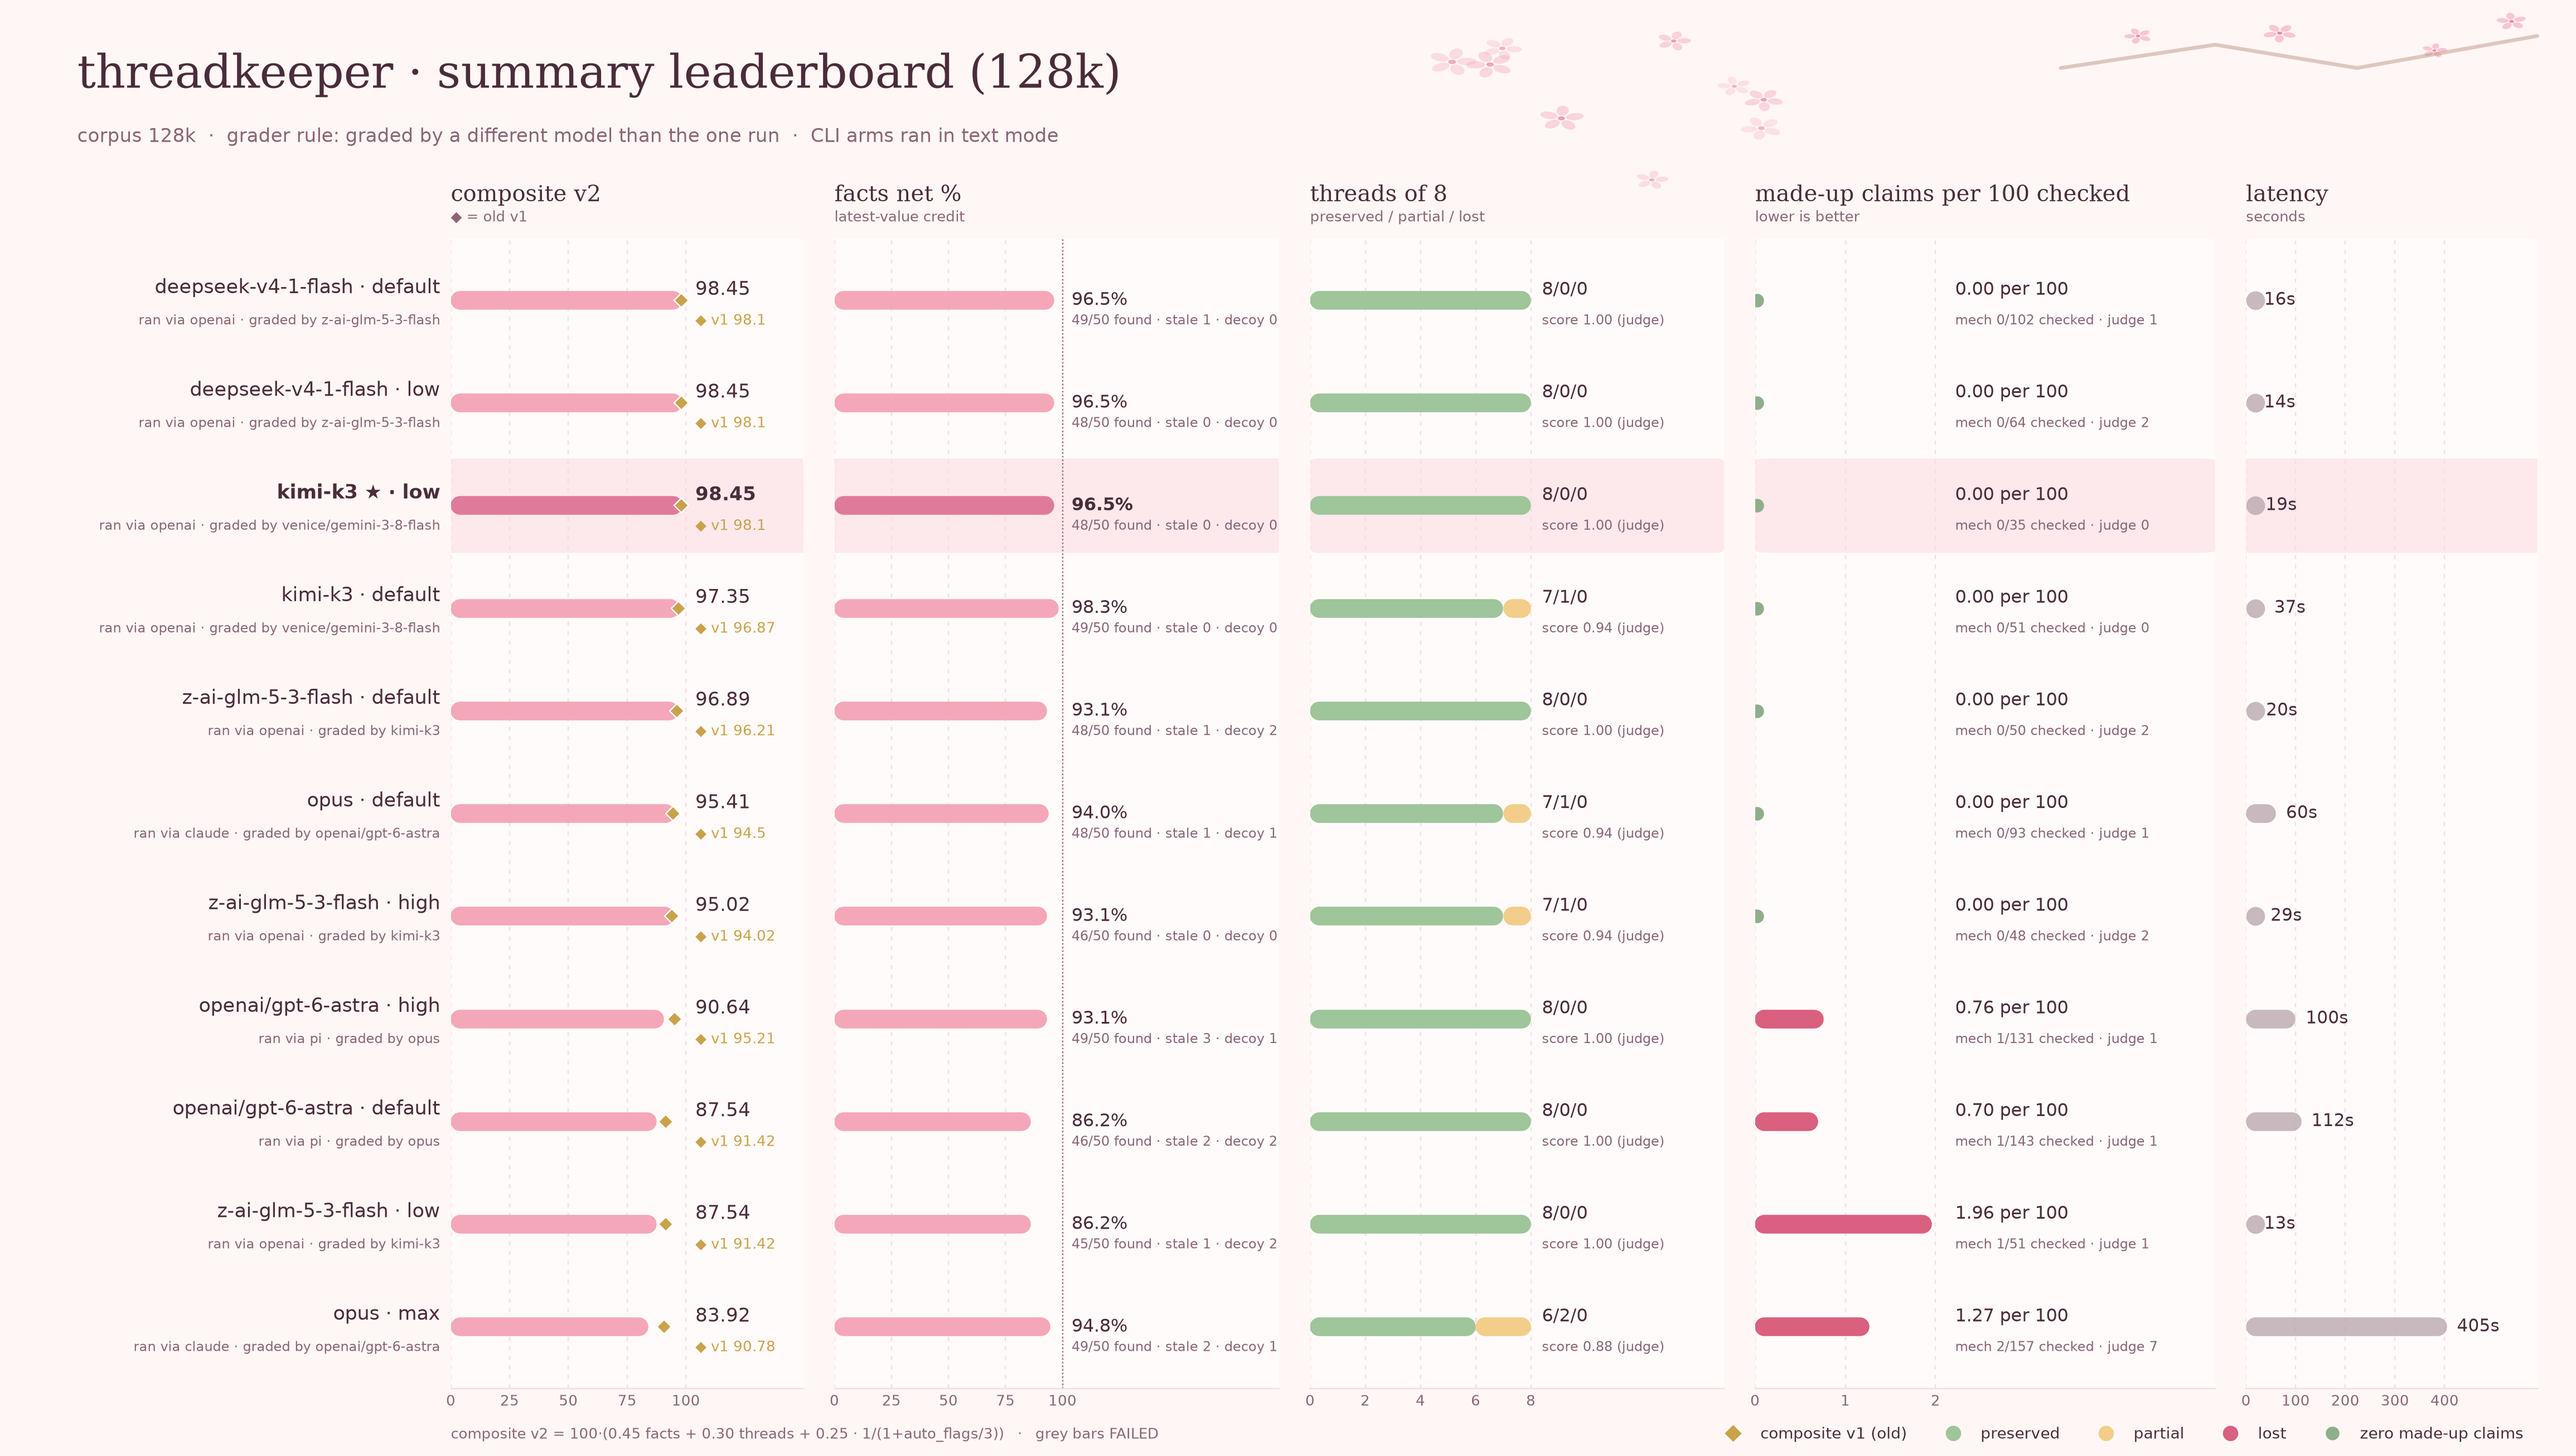
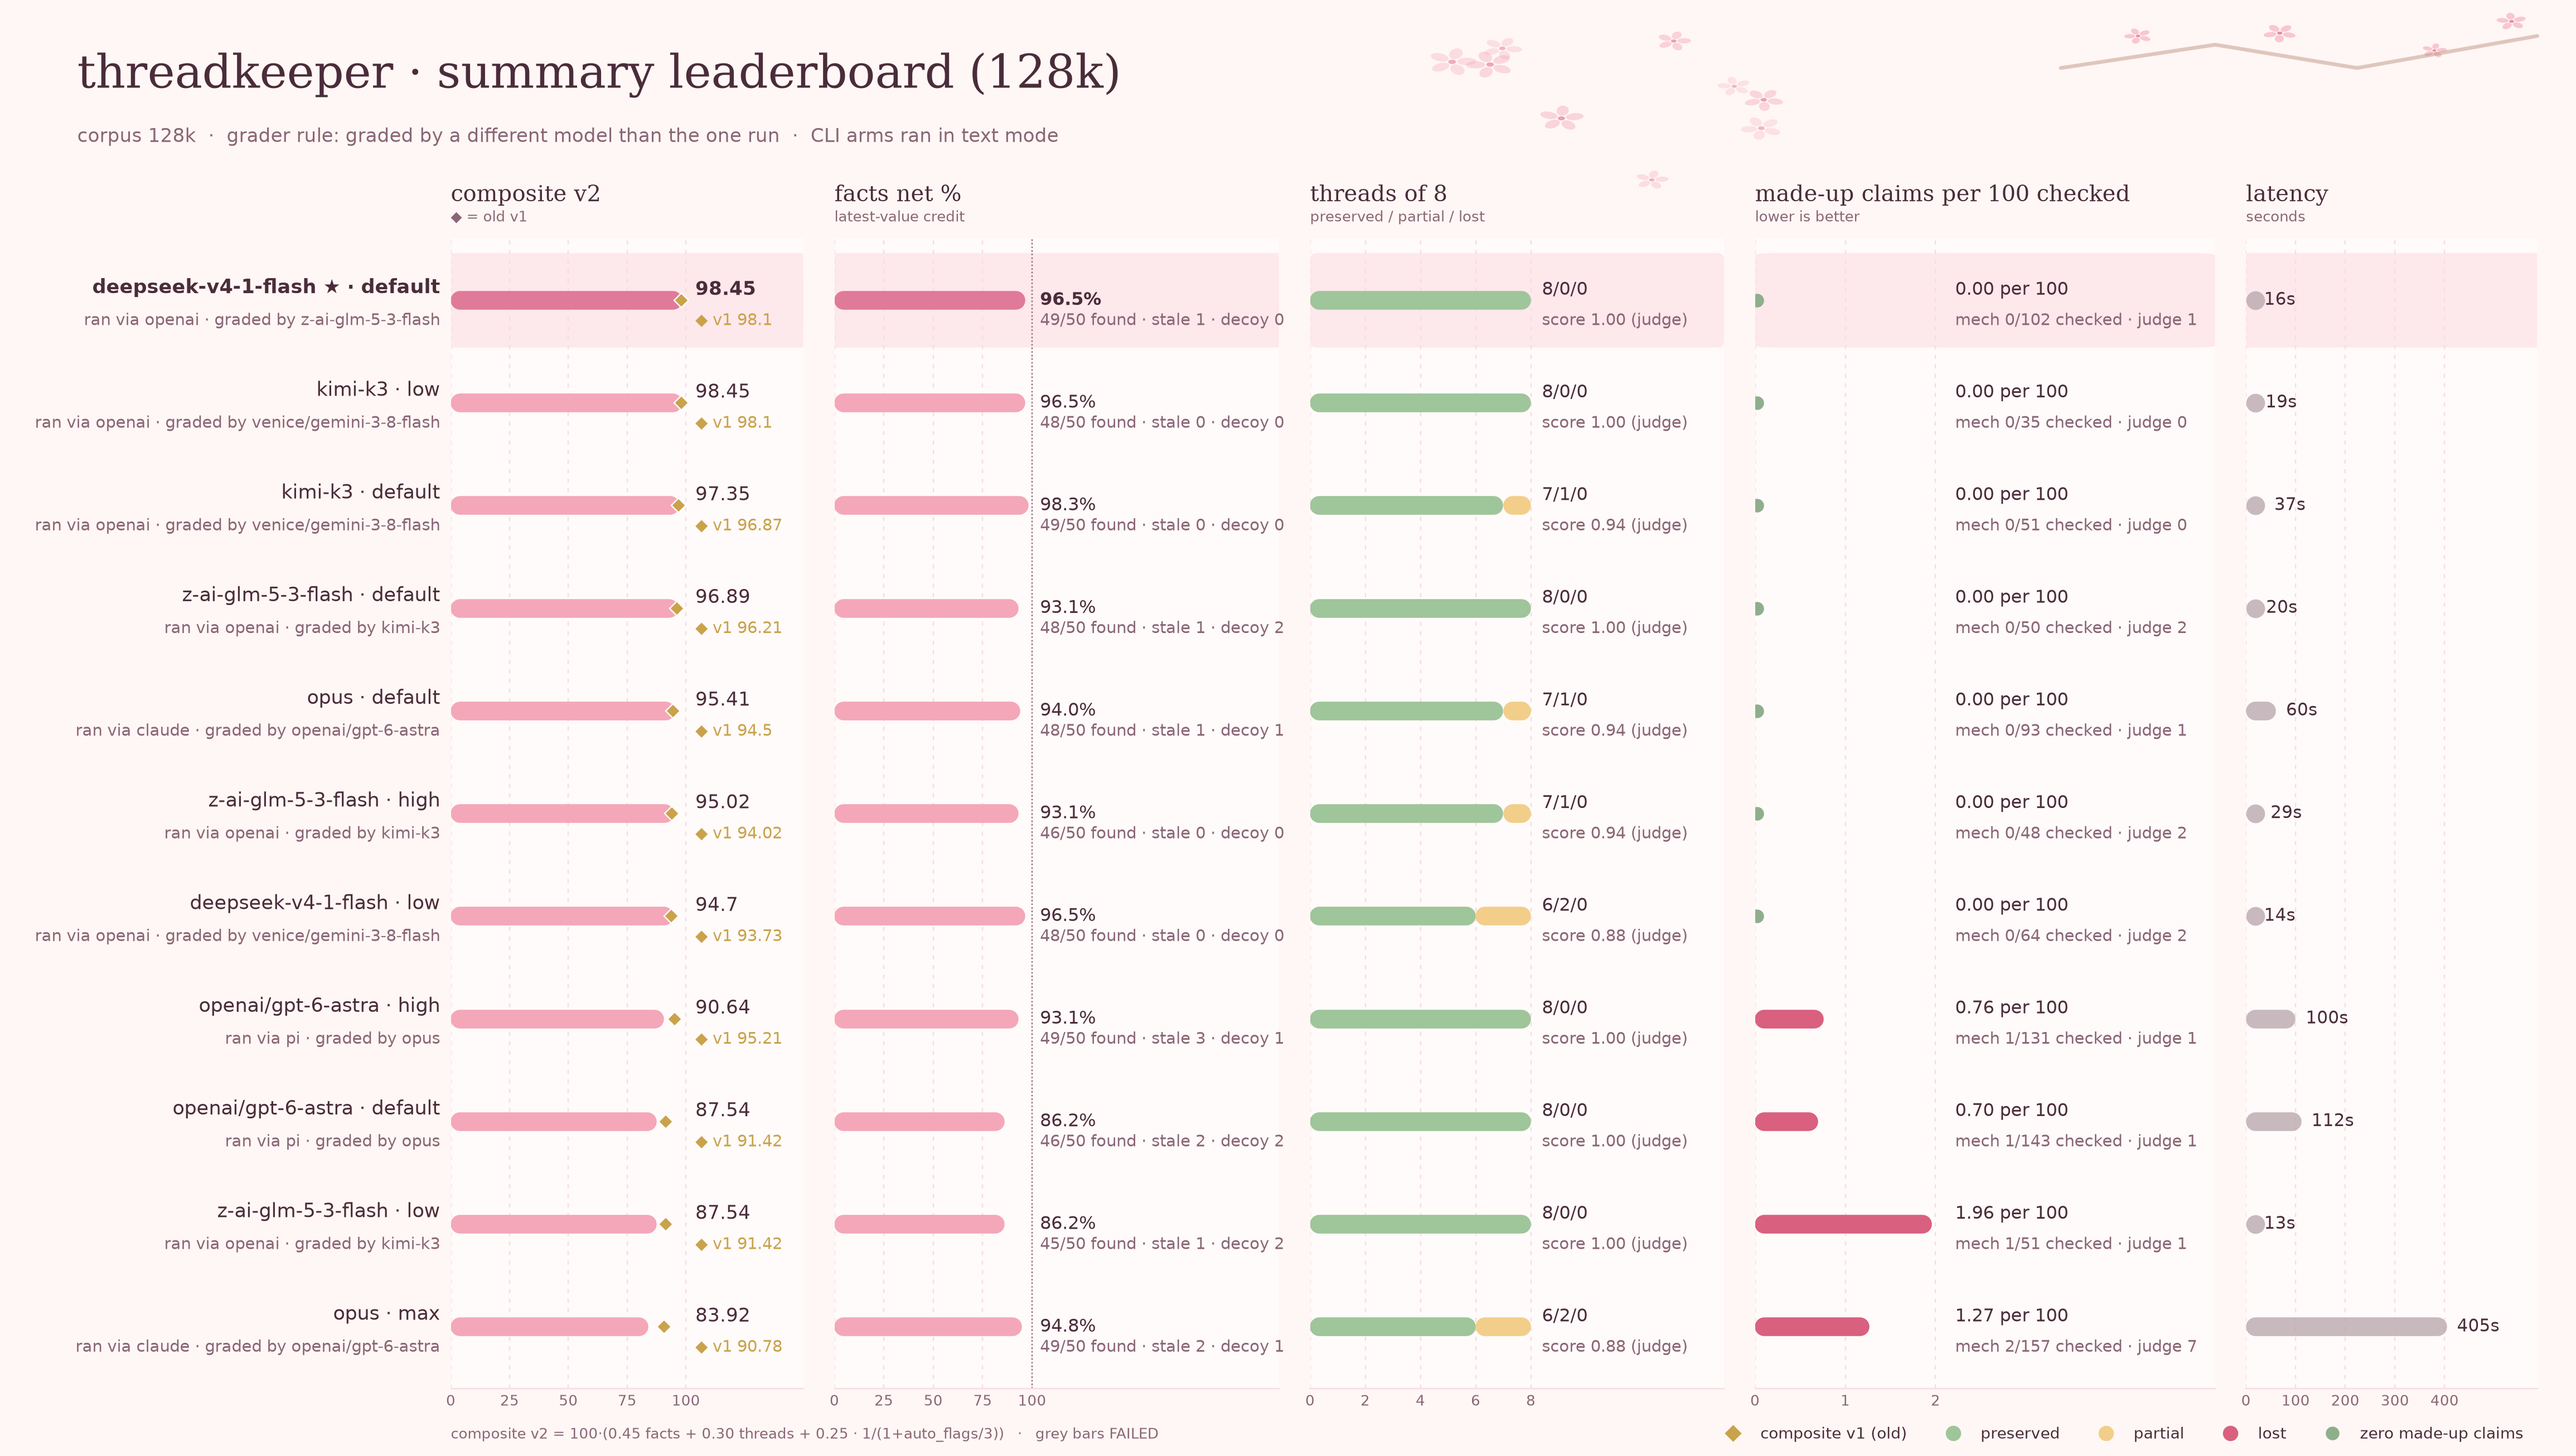
chart: sakura theme (blush palette, rounded bars, serif title, petal ornament, leader band)

diff --git a/score/chart.py b/score/chart.py
@@ -46,14 +46,14 @@ def main():
     vmax_lat = max([_f(r["latency_s"]) or 0 for r in rows] + [1])
     pimax = max([_f(r.get("invention_mech_per100")) or 0 for r in rows] + [1])
     ac.set_xlim(0, 150)
-    af.set_xlim(0, 195)
+    af.set_xlim(0, 225)
     at.set_xlim(0, 15)
     ai.set_xlim(0, pimax * 2.6)
     al.set_xlim(0, vmax_lat * 1.45)
     for a in axs:
         a.set_ylim(-0.6, n - 0.4)
 
-    best = max(range(n), key=lambda i: _f(rows[i]["composite"]) or -1)
+    best = max(range(n), key=lambda i: (_f(rows[i]["composite"]) or -1, i))
     # leader highlight band across all panels
     for a in axs:
         a.add_patch(FancyBboxPatch((a.get_xlim()[0], best - 0.46), a.get_xlim()[1] - a.get_xlim()[0], 0.92, boxstyle="round,pad=0,rounding_size=0.25", fc=BLUSH, ec="none", alpha=0.45, zorder=0, mutation_aspect=1 / 60 * (a.get_xlim()[1] - a.get_xlim()[0]) / 1))
@@ -71,11 +71,11 @@ def main():
         if r.get("composite_v1"):
             v1 = float(r["composite_v1"])
             ac.plot(v1, i, marker="D", color=GOLD, markersize=6, mec="white", mew=0.8, linestyle="none", zorder=6)
-            ac.text(104, i - 0.2, "◆ v1 %s" % r["composite_v1"], va="center", fontsize=8.5, color=GOLD)
+            ac.text(104, i - 0.2, "◆ v1 %s" % r["composite_v1"], va="center", fontsize=9.5, color=GOLD)
         fn = _f(r["facts_net_pct"])
         rbar(af, i, 0, fn, DEEP if lead else PINK)
         af.text(104, i, "%s%%" % r["facts_net_pct"], va="center", fontsize=10.5, fontweight="bold" if lead else "normal")
-        af.text(104, i - 0.2, "%s/%s found · stale %s · decoy %s" % (r["facts_found"], r["facts_total"], r["stale_facts"], r["decoy_hits"]), va="center", fontsize=8, color=SOFT)
+        af.text(104, i - 0.2, "%s/%s found · stale %s · decoy %s" % (r["facts_found"], r["facts_total"], r["stale_facts"], r["decoy_hits"]), va="center", fontsize=9.5, color=SOFT)
         if r["threads_judge_preserved"] != "":
             p, pa, l = (int(r["threads_judge_%s" % k]) for k in ("preserved", "partial", "lost"))
             src_t = "judge"
@@ -87,14 +87,14 @@ def main():
             rbar(at, i, lf, lf + v, TH[k], lw=11)
             lf += v
         at.text(8.4, i + 0.1, "%d/%d/%d" % (p, pa, l), va="center", fontsize=10.5)
-        at.text(8.4, i - 0.2, "score %.2f (%s)" % ((p + 0.5 * pa) / 8, src_t), va="center", fontsize=8, color=SOFT)
+        at.text(8.4, i - 0.2, "score %.2f (%s)" % ((p + 0.5 * pa) / 8, src_t), va="center", fontsize=9.5, color=SOFT)
         pi_ = _f(r.get("invention_mech_per100")) or 0
         if pi_ > 0:
             rbar(ai, i, 0, pi_, "#D9607F")
         else:
             ai.plot(0.02, i, marker="o", color=SAGE, markersize=7, zorder=4)
         ai.text(pimax * 1.08 + 0.1, i + 0.1, "%.2f per 100" % pi_, va="center", fontsize=10.5)
-        ai.text(pimax * 1.08 + 0.1, i - 0.2, "mech %s/%s checked · judge %s" % (r["invention_mech"], r["invention_checked"], r["invention_judge"] or "n/a"), va="center", fontsize=8, color=SOFT)
+        ai.text(pimax * 1.08 + 0.1, i - 0.2, "mech %s/%s checked · judge %s" % (r["invention_mech"], r["invention_checked"], r["invention_judge"] or "n/a"), va="center", fontsize=9.5, color=SOFT)
         lat = _f(r["latency_s"])
         if lat is not None:
             rbar(al, i, 0, lat, GREY, alpha=0.8)
@@ -107,7 +107,7 @@ def main():
     for i, r in enumerate(rows):
         m = r["model"] + (" ★" if i == best else "")
         ac.text(-0.03, i + 0.12, "%s · %s" % (m, r["effort"]), transform=ac.get_yaxis_transform(), ha="right", va="center", fontsize=11.5, fontweight="bold" if i == best else "normal")
-        ac.text(-0.03, i - 0.2, "ran via %s · graded by %s" % (r.get("transport") or "openai", r.get("judge_model") or "?"), transform=ac.get_yaxis_transform(), ha="right", va="center", fontsize=8, color=SOFT)
+        ac.text(-0.03, i - 0.2, "ran via %s · graded by %s" % (r.get("transport") or "openai", r.get("judge_model") or "?"), transform=ac.get_yaxis_transform(), ha="right", va="center", fontsize=9.5, color=SOFT)
     titles = ["composite v2", "facts net %", "threads of 8", "made-up claims per 100 checked", "latency"]
     subs = ["◆ = old v1", "latest-value credit", "preserved / partial / lost", "lower is better", "seconds"]
     for a, t, s in zip(axs, titles, subs):

diff --git a/score/theme.py b/score/theme.py
@@ -1,0 +1,36 @@
+"""Sakura palette + small drawing helpers for score.chart."""
+import math
+
+from matplotlib.patches import Ellipse
+
+BG, PANEL = "#FFF7F5", "#FFFBFA"
+INK, SOFT = "#4A2C3A", "#8A6677"
+PINK, DEEP, BLUSH = "#F4A7B9", "#E07A9A", "#FBD3DD"
+SAGE, GOLD, GREY = "#8FAE8B", "#C9A24B", "#B9A9AF"
+GRID = "#F6DDE3"
+TH = {"P": "#9FC59A", "PA": "#F2CE8A", "L": "#D9607F"}
+SERIF = ["DejaVu Serif", "Noto Serif", "Liberation Serif", "serif"]
+
+
+def rbar(ax, y, x0, x1, color, lw=11, alpha=1.0, label=None, z=3):
+    """Round-ended horizontal bar from x0 to x1 (data units). The cap radius is trimmed so the bar ends exactly at x1."""
+    if x1 <= x0:
+        return
+    bb = ax.get_position()
+    w_in = bb.width * ax.figure.get_figwidth()
+    lo, hi = ax.get_xlim()
+    r = (lw / 72 / 2) / w_in * (hi - lo)
+    a, b = x0 + r, x1 - r
+    if b <= a:  # shorter than a cap diameter: draw a dot (a zero-length line does not render)
+        ax.plot([a], [y], marker="o", markersize=lw, color=color, alpha=alpha, mew=0, ls="none", label=label, zorder=z)
+        return
+    ax.plot([a, b], [y, y], solid_capstyle="round", lw=lw, color=color, alpha=alpha, label=label, zorder=z)
+
+
+def petal_flower(ax, cx, cy, r=0.012, rot=0.0, color=PINK, alpha=0.5):
+    """Five-petal blossom in axes-fraction coords (ax is a full-figure overlay axes with equal-aspect transform)."""
+    for k in range(5):
+        a = rot + k * 2 * math.pi / 5
+        px, py = cx + r * 0.95 * math.cos(a), cy + r * 0.95 * math.sin(a)
+        ax.add_patch(Ellipse((px, py), r * 1.25, r * 0.85, angle=math.degrees(a), color=color, alpha=alpha, lw=0, transform=ax.transAxes))
+    ax.add_patch(Ellipse((cx, cy), r * 0.5, r * 0.5, color=DEEP, alpha=min(1, alpha + 0.25), lw=0, transform=ax.transAxes))
